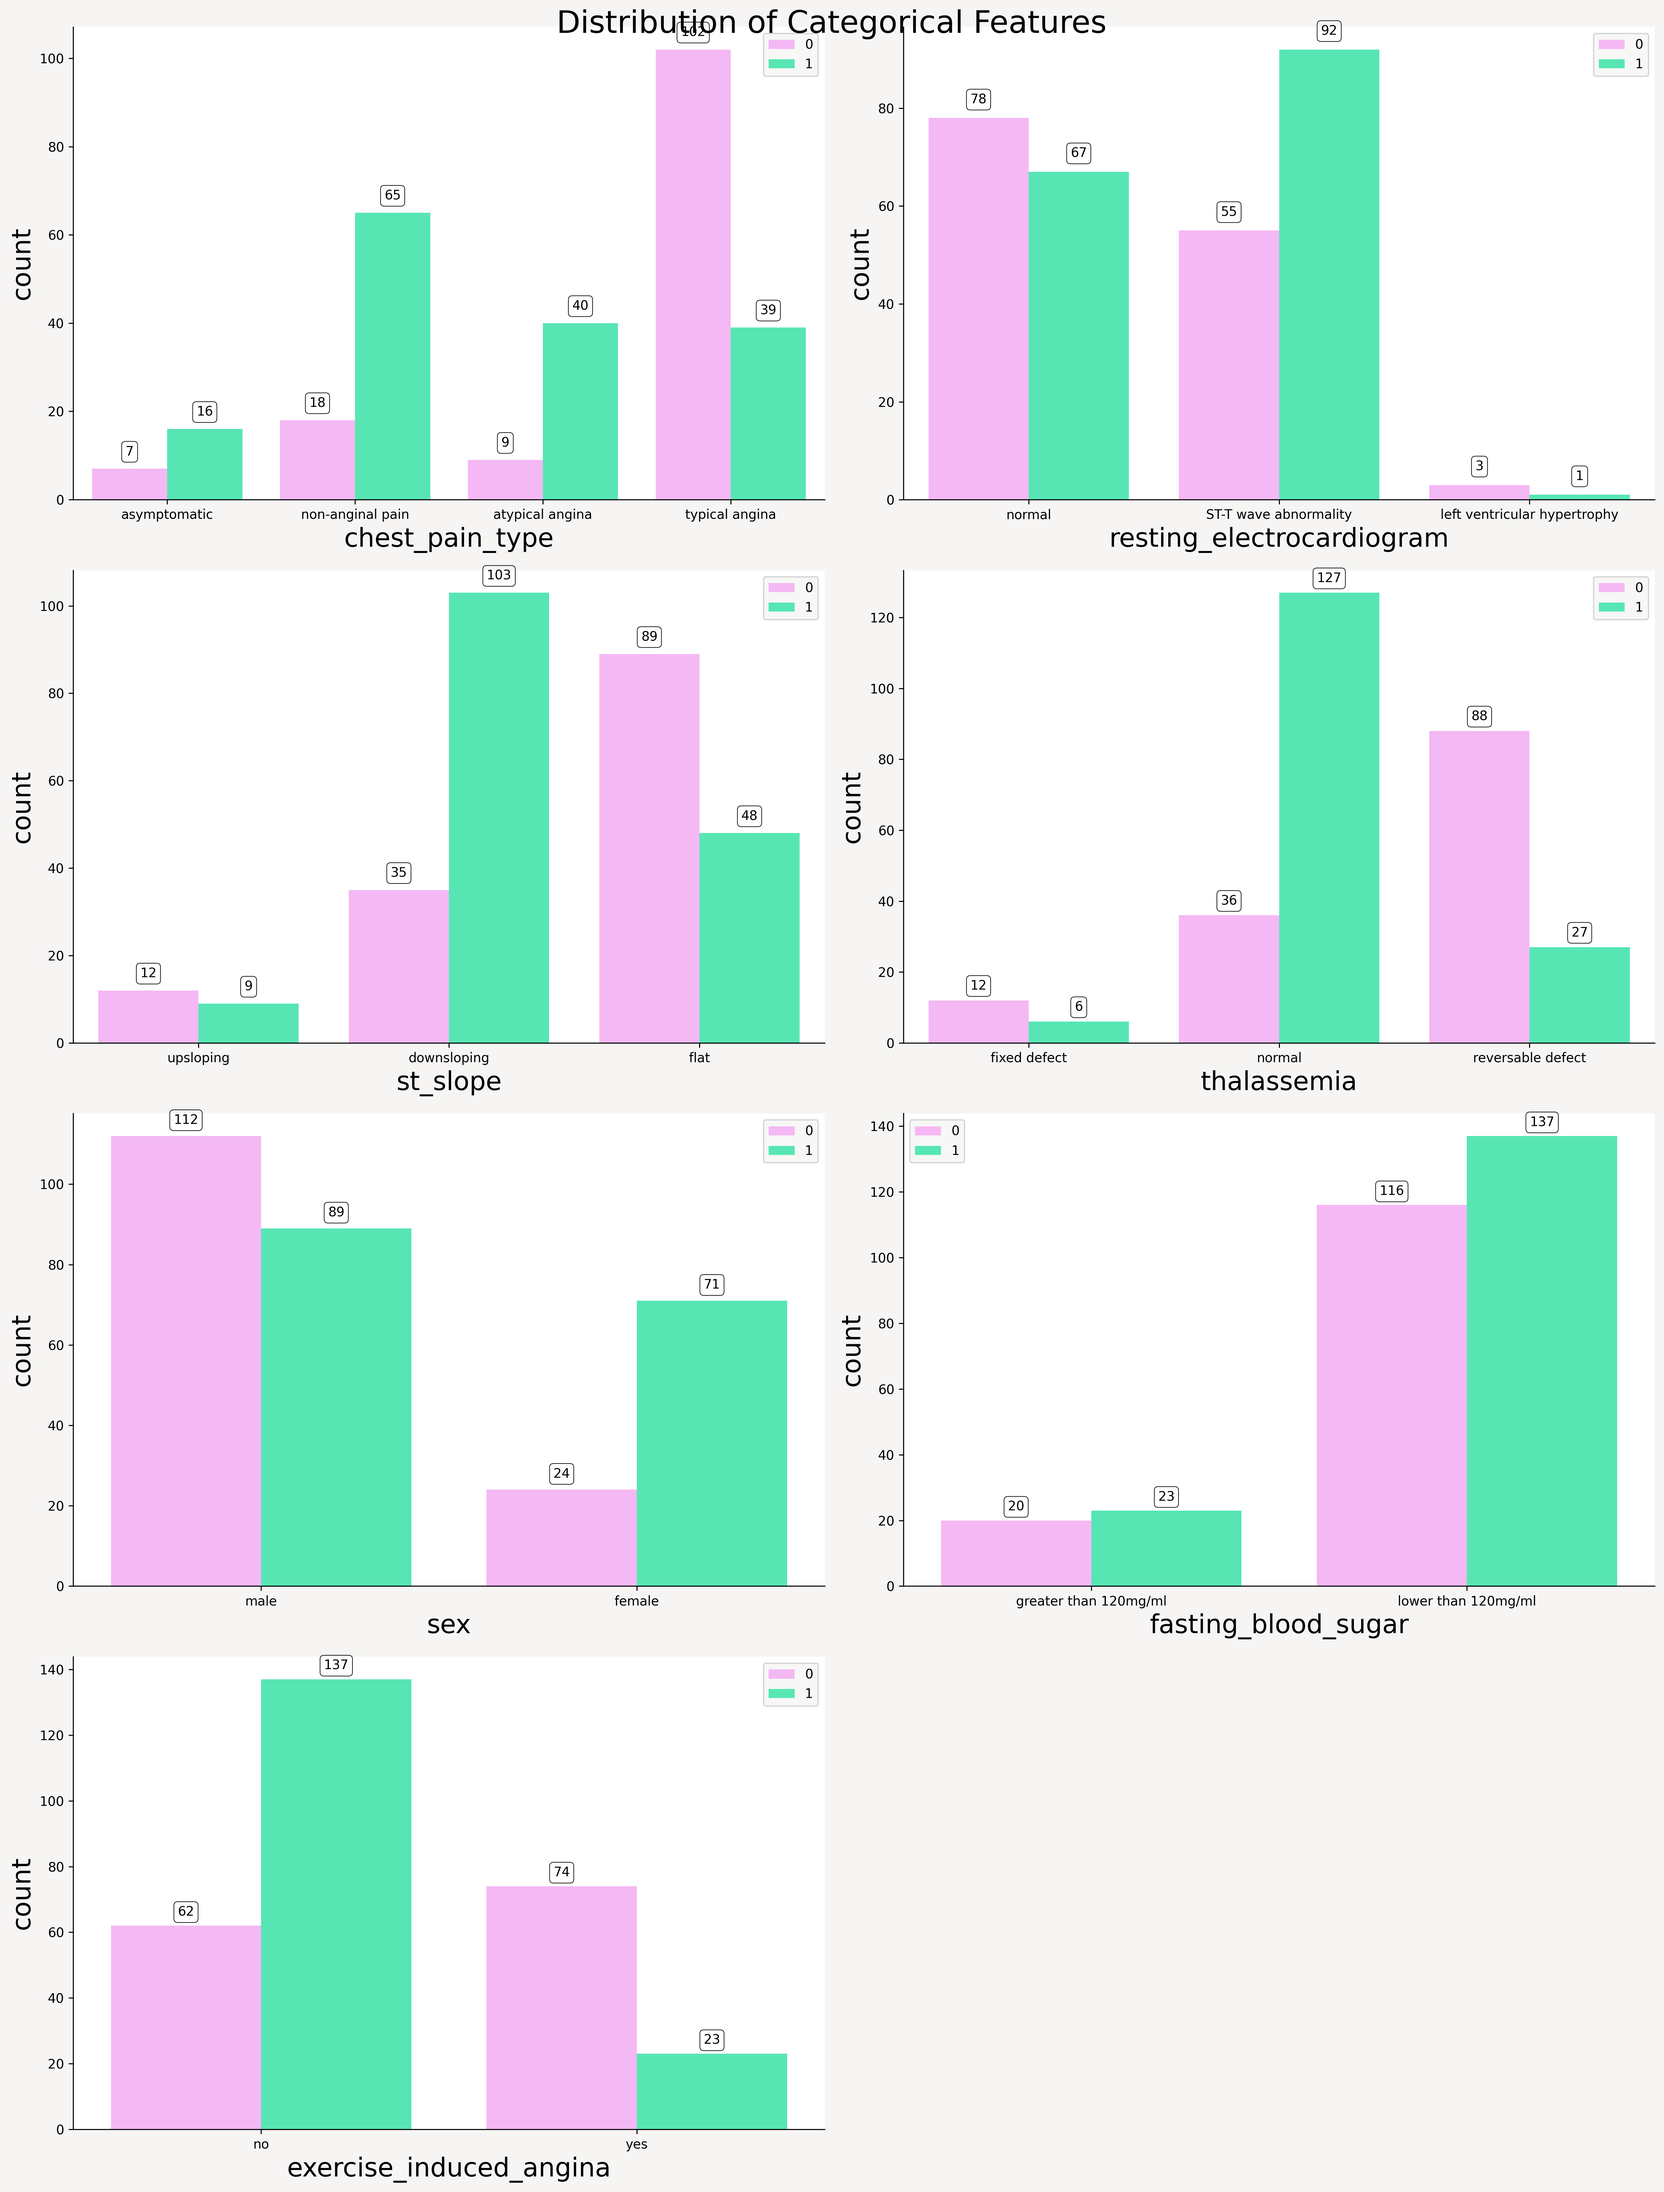
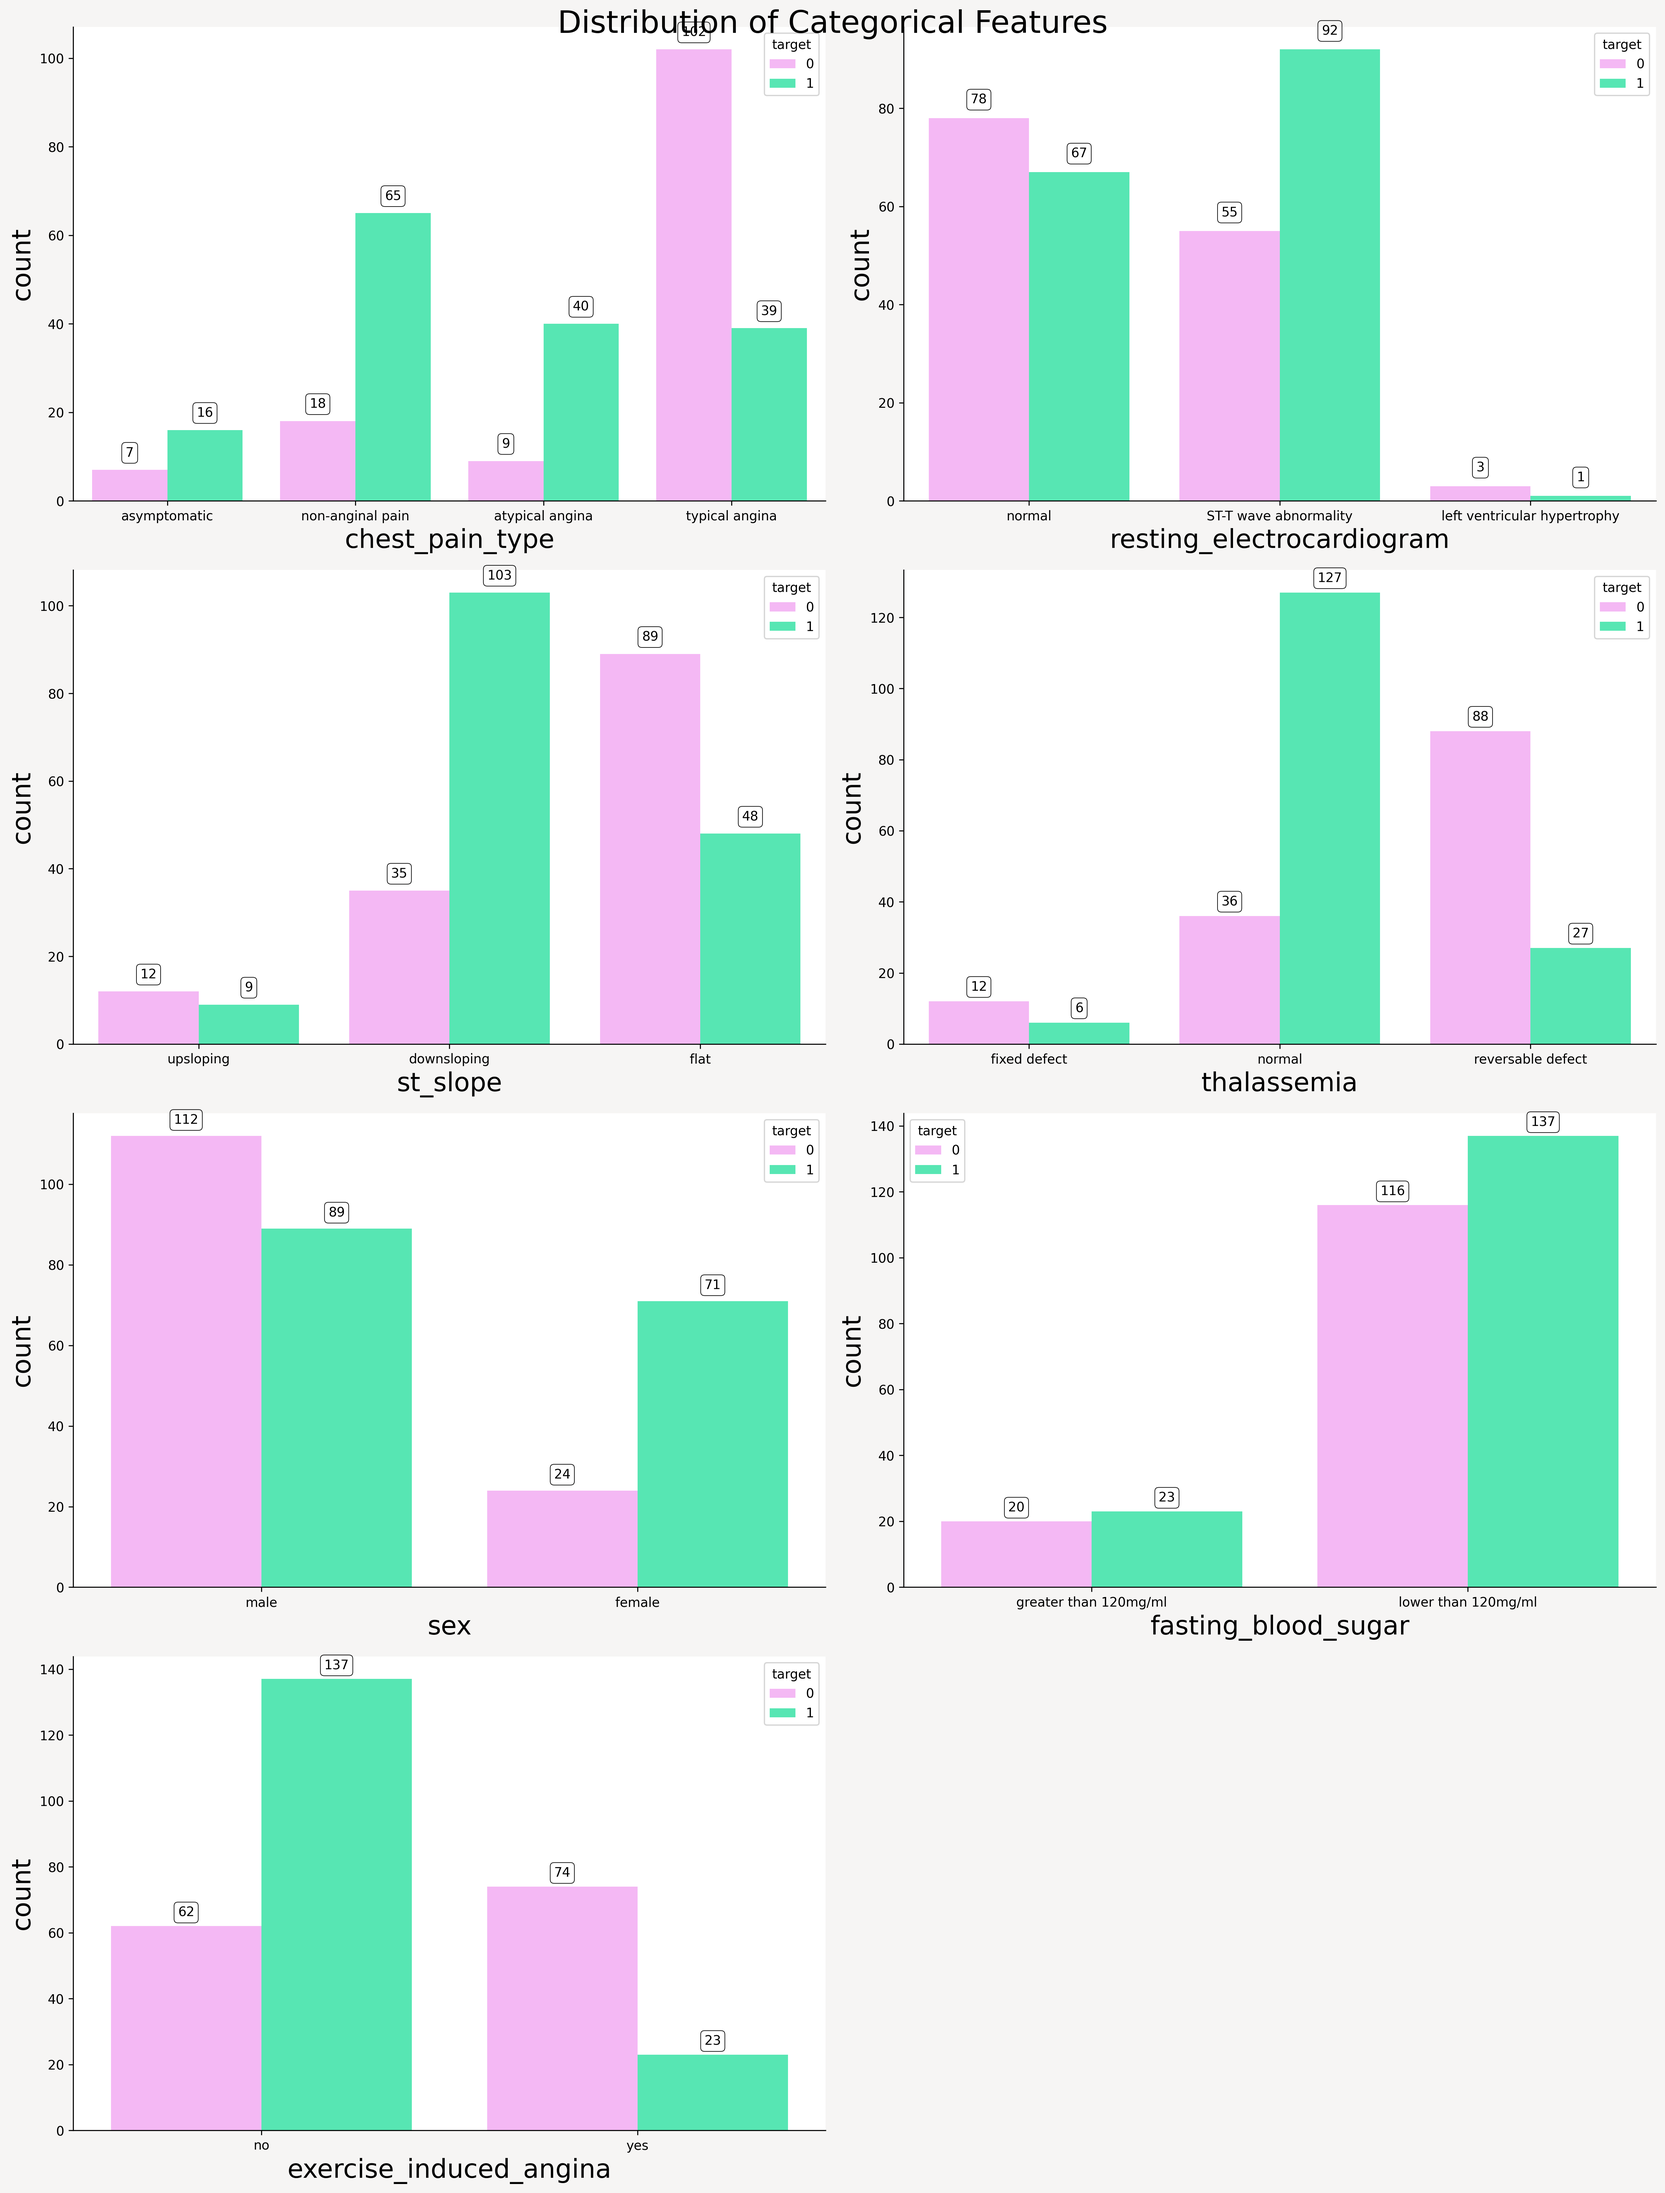
Updated the run_analysis.py script

diff --git a/run_analysis.py b/run_analysis.py
@@ -1,0 +1,262 @@
+"""
+Full pipeline script for Heart dataset EDA.
+- Handles preprocessing, feature renaming, and filtering
+- Generates numerical and categorical feature plots
+- Computes correlations (Pearson, point-biserial, Cramer's V)
+- Saves all outputs to results folder
+- Includes progress indicators
+"""
+
+import subprocess
+import sys
+import warnings
+warnings.filterwarnings('ignore')
+
+# -------------------------------
+# Step 0: Install dependencies
+# -------------------------------
+def install_dependencies():
+    print("Installing dependencies from requirements.txt ...")
+    subprocess.check_call([sys.executable, "-m", "pip", "install", "-r", "requirements.txt"])
+    print("Dependencies installed.\n")
+
+try:
+    import pandas as pd
+    import numpy as np
+    import matplotlib.pyplot as plt
+    import seaborn as sns
+    from scipy import stats
+except ImportError:
+    install_dependencies()
+    import pandas as pd
+    import numpy as np
+    import matplotlib.pyplot as plt
+    import seaborn as sns
+    from scipy import stats
+
+# -------------------------------
+# Step 1: Load & preprocess data
+# -------------------------------
+print("Step 1/5: Loading and preprocessing data...")
+data = pd.read_csv('data/raw/heart.csv')
+
+# Filter faulty points
+data = data[data['ca'] < 4]
+data = data[data['thal'] > 0]
+
+# Rename columns
+data = data.rename(columns={
+    'cp':'chest_pain_type',
+    'trestbps':'resting_blood_pressure',
+    'chol': 'cholesterol',
+    'fbs': 'fasting_blood_sugar',
+    'restecg' : 'resting_electrocardiogram',
+    'thalach': 'max_heart_rate_achieved',
+    'exang': 'exercise_induced_angina',
+    'oldpeak': 'st_depression',
+    'slope': 'st_slope',
+    'ca':'num_major_vessels',
+    'thal': 'thalassemia'
+})
+
+# Map categorical values
+data.loc[data['sex'] == 0, 'sex'] = 'female'
+data.loc[data['sex'] == 1, 'sex'] = 'male'
+
+data.loc[data['chest_pain_type'] == 0, 'chest_pain_type'] = 'typical angina'
+data.loc[data['chest_pain_type'] == 1, 'chest_pain_type'] = 'atypical angina'
+data.loc[data['chest_pain_type'] == 2, 'chest_pain_type'] = 'non-anginal pain'
+data.loc[data['chest_pain_type'] == 3, 'chest_pain_type'] = 'asymptomatic'
+
+data.loc[data['fasting_blood_sugar'] == 0, 'fasting_blood_sugar'] = 'lower than 120mg/ml'
+data.loc[data['fasting_blood_sugar'] == 1, 'fasting_blood_sugar'] = 'greater than 120mg/ml'
+
+data.loc[data['resting_electrocardiogram'] == 0, 'resting_electrocardiogram'] = 'normal'
+data.loc[data['resting_electrocardiogram'] == 1, 'resting_electrocardiogram'] = 'ST-T wave abnormality'
+data.loc[data['resting_electrocardiogram'] == 2, 'resting_electrocardiogram'] = 'left ventricular hypertrophy'
+
+data.loc[data['exercise_induced_angina'] == 0, 'exercise_induced_angina'] = 'no'
+data.loc[data['exercise_induced_angina'] == 1, 'exercise_induced_angina'] = 'yes'
+
+data.loc[data['st_slope'] == 0, 'st_slope'] = 'upsloping'
+data.loc[data['st_slope'] == 1, 'st_slope'] = 'flat'
+data.loc[data['st_slope'] == 2, 'st_slope'] = 'downsloping'
+
+data.loc[data['thalassemia'] == 1, 'thalassemia'] = 'fixed defect'
+data.loc[data['thalassemia'] == 2, 'thalassemia'] = 'normal'
+data.loc[data['thalassemia'] == 3, 'thalassemia'] = 'reversable defect'
+
+# Save processed data
+data.to_csv('data/processed/heart_processed.csv', index=False)
+print("Data preprocessing completed.")
+
+# -------------------------------
+# Step 2: Load processed data
+# -------------------------------
+data = pd.read_csv('data/processed/heart_processed.csv')
+
+num_feats = ['age', 'cholesterol', 'resting_blood_pressure', 'max_heart_rate_achieved', 'st_depression', 'num_major_vessels']
+bin_feats = ['sex', 'fasting_blood_sugar', 'exercise_induced_angina', 'target']
+nom_feats= ['chest_pain_type', 'resting_electrocardiogram', 'st_slope', 'thalassemia']
+cat_feats = nom_feats + bin_feats
+
+mypal = ['#FC05FB', '#FEAEFE', '#FCD2FC','#F3FEFA', '#B4FFE4','#3FFEBA']
+mypal_1= ['#FC05FB', '#FEAEFE', '#FCD2FC','#F3FEFA', '#B4FFE4','#3FFEBA', '#FC05FB', '#FEAEFE', '#FCD2FC']
+
+# -------------------------------
+# Step 3: Numerical features plots
+# -------------------------------
+print("Step 2/5: Generating numerical feature plots...")
+L = len(num_feats)
+ncol = 2
+nrow = int(np.ceil(L / ncol))
+fig, axes = plt.subplots(nrow, ncol, figsize=(16, 14), facecolor='#F6F5F4')
+axes = axes.flatten()
+
+for i, col in enumerate(num_feats):
+    ax = axes[i]
+    if col == 'num_major_vessels':
+        sns.countplot(data=data, x=col, hue='target', palette=mypal[1::4], ax=ax)
+        for p in ax.patches:
+            height = p.get_height()
+            ax.text(p.get_x() + p.get_width()/2., height + 0.5, f'{int(height)}', ha='center', fontsize=10,
+                    bbox=dict(facecolor='none', edgecolor='black', boxstyle='round', linewidth=0.5))
+        ax.set_ylabel('Count', fontsize=14)
+    else:
+        sns.kdeplot(data=data, x=col, hue='target', multiple='stack', palette=mypal[1::4], ax=ax)
+        ax.set_ylabel('Density', fontsize=14)
+    ax.set_xlabel(col, fontsize=14)
+    sns.despine(ax=ax, right=True)
+
+for j in range(L, nrow*ncol):
+    fig.delaxes(axes[j])
+
+plt.suptitle('Distribution of Numerical Features', fontsize=24)
+plt.tight_layout(rect=[0, 0, 1, 0.96])
+fig.savefig('results/figures/numerical_features_distribution.png', dpi=300, bbox_inches='tight')
+plt.close(fig)
+
+# Pairplot
+g = sns.pairplot(data[num_feats + ['target']], hue="target", corner=True, diag_kind='hist', palette=mypal[1::4])
+g.savefig('results/figures/pairplot_numerical_features.png', dpi=300, bbox_inches='tight')
+plt.close()
+
+# -------------------------------
+# Step 4: Categorical features plots
+# -------------------------------
+print("Step 3/5: Generating categorical feature plots...")
+def count_plot(data, cat_feats):    
+    L = len(cat_feats)
+    ncol = 2
+    nrow = int(np.ceil(L/ncol))
+    remove_last = (nrow * ncol) - L
+    fig, axes = plt.subplots(nrow, ncol, figsize=(18, 24), facecolor='#F6F5F4')    
+    fig.subplots_adjust(top=0.92)
+    if nrow == 1 and ncol == 1:
+        axes = [axes]
+    else:
+        axes = axes.flatten()
+    if remove_last > 0:
+        for j in range(remove_last):
+            axes[-(j+1)].set_visible(False)
+    for i, col in enumerate(cat_feats):
+        ax = axes[i]
+        sns.countplot(data=data, x=col, hue="target", palette=mypal[1::4], ax=ax)
+        ax.set_xlabel(col, fontsize=20)
+        ax.set_ylabel("count", fontsize=20)
+        sns.despine(right=True, ax=ax)
+        for p in ax.patches:
+            height = p.get_height()
+            if height > 0:
+                ax.text(p.get_x() + p.get_width()/2., height + 3, '{:1.0f}'.format(height), ha="center",
+                       bbox=dict(facecolor='none', edgecolor='black', boxstyle='round', linewidth=0.5))
+    plt.suptitle('Distribution of Categorical Features', fontsize=24)
+    plt.tight_layout()
+    fig.savefig('results/figures/categorical_features_distribution.png', dpi=300, bbox_inches='tight')
+    plt.close(fig)
+
+count_plot(data, cat_feats[:-1])
+
+# -------------------------------
+# Step 5: Correlations
+# -------------------------------
+print("Step 4/5: Generating correlation plots...")
+
+# Numerical correlations (Pearson)
+df_ = data[num_feats]
+corr = df_.corr(method='pearson')
+mask = np.triu(np.ones_like(corr, dtype=bool))
+f, ax = plt.subplots(figsize=(8, 5), facecolor=None)
+cmap = sns.color_palette(mypal, as_cmap=True)
+sns.heatmap(corr, mask=mask, cmap=cmap, vmax=1.0, vmin=-1.0, center=0, annot=True,
+            square=False, linewidths=.5, cbar_kws={"shrink": 0.75})
+ax.set_title("Numerical features correlation (Pearson's)", fontsize=20, y= 1.05)
+f.savefig('results/figures/numerical_features_correlation.png', dpi=300, bbox_inches='tight')
+plt.close(f)
+
+# Point-biserial correlations
+feats_ = ['age', 'cholesterol', 'resting_blood_pressure', 'max_heart_rate_achieved', 'st_depression', 'num_major_vessels', 'target']
+
+def point_biserial(x, y):
+    pb = stats.pointbiserialr(x, y)
+    return pb[0]
+
+rows= []
+for x in feats_:
+    col = []
+    for y in feats_ :
+        pbs =point_biserial(data[x], data[y]) 
+        col.append(round(pbs,2))  
+    rows.append(col)  
+    
+pbs_results = np.array(rows)
+DF = pd.DataFrame(pbs_results, columns = data[feats_].columns, index =data[feats_].columns)
+
+mask = np.triu(np.ones_like(DF, dtype=bool))
+corr = DF.mask(mask)
+
+f, ax = plt.subplots(figsize=(8, 5), facecolor=None)
+cmap = sns.color_palette(mypal, as_cmap=True)
+sns.heatmap(corr, mask=mask, cmap=cmap, vmax=1.0, vmin=-1, center=0, annot=True,
+            square=False, linewidths=.5, cbar_kws={"shrink": 0.75})
+ax.set_title("Cont feats vs target correlation (point-biserial)", fontsize=20, y= 1.05)
+f.savefig('results/figures/point_biserial_correlation.png', dpi=300, bbox_inches='tight')
+plt.close(f)
+
+# Categorical correlations (Cramer's V)
+def cramers_v(x, y): 
+    confusion_matrix = pd.crosstab(x,y)
+    chi2 = stats.chi2_contingency(confusion_matrix)[0]
+    n = confusion_matrix.sum().sum()
+    phi2 = chi2/n
+    r,k = confusion_matrix.shape
+    phi2corr = max(0, phi2-((k-1)*(r-1))/(n-1))
+    rcorr = r-((r-1)**2)/(n-1)
+    kcorr = k-((k-1)**2)/(n-1)
+    return np.sqrt(phi2corr/min((kcorr-1),(rcorr-1)))
+
+# calculate the correlation coefficients using the above function
+data_ = data[cat_feats]
+rows= []
+for x in data_:
+    col = []
+    for y in data_ :
+        cramers =cramers_v(data_[x], data_[y]) 
+        col.append(round(cramers,2))
+    rows.append(col)
+    
+cramers_results = np.array(rows)
+df = pd.DataFrame(cramers_results, columns = data_.columns, index = data_.columns)
+
+# plot the heat map
+mask = np.triu(np.ones_like(df, dtype=bool))
+corr = df.mask(mask)
+f, ax = plt.subplots(figsize=(10, 6), facecolor=None)
+cmap = sns.color_palette(mypal_1, as_cmap=True)
+sns.heatmap(corr, mask=mask, cmap=cmap, vmax=1.0, vmin=0, center=0, annot=True,
+            square=False, linewidths=.01, cbar_kws={"shrink": 0.75})
+ax.set_title("Categorical Features Correlation (Cramer's V)", fontsize=20, y= 1.05)
+f.savefig('results/figures/categorical_features_cramersv.png', dpi=300, bbox_inches='tight')
+plt.close(f)
+
+print("Step 5/5: Pipeline completed. All figures saved in 'results/figures/'")
